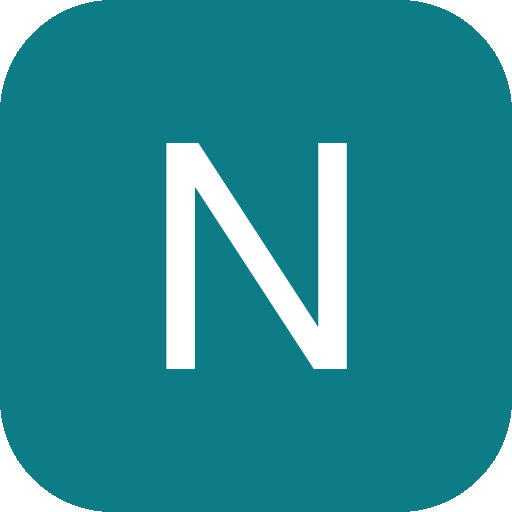
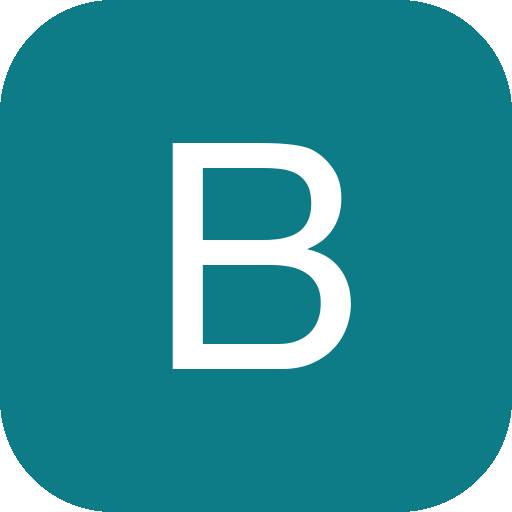
Renomeia o assistente de Nina para Bella (UI, ícone, IA, docs)

Changed region(s): [[0.375, 0.2812, 0.6875, 0.7188], [0.3125, 0.2812, 0.3438, 0.7188]]

diff --git a/backend/src/server.js b/backend/src/server.js
@@ -9,14 +9,14 @@ const app = express();
 app.use(cors());
 app.use(express.json({ limit: "1mb" }));
 
-app.get("/api/health", (req, res) => res.json({ ok: true, app: "Nina" }));
+app.get("/api/health", (req, res) => res.json({ ok: true, app: "Bella" }));
 app.use("/api/tarefas", tarefasRouter);
 app.use("/api/chat", chatRouter);
 app.use("/api/cofre", cofreRouter);
 
 const PORT = process.env.PORT || 3001;
 app.listen(PORT, () => {
-  console.log(`Nina (backend) rodando em http://localhost:${PORT}`);
+  console.log(`Bella (backend) rodando em http://localhost:${PORT}`);
   if (!process.env.ANTHROPIC_API_KEY) {
     console.log("⚠  ANTHROPIC_API_KEY não configurada — o chat responderá com um aviso até você preencher o .env");
   }

diff --git a/backend/src/anthropic.js b/backend/src/anthropic.js
@@ -50,7 +50,7 @@ function sistema() {
     timeZone: "America/Bahia",
   });
   return (
-    "Você é a Nina, assistente pessoal do Dr. Aedo. Fale em português do Brasil, " +
+    "Você é a Bella, assistente pessoal do Dr. Aedo. Fale em português do Brasil, " +
     "de forma breve, cordial e prática. Ajude com tarefas, lembretes, agenda e afazeres. " +
     `Hoje é ${dataHoje}, ${horaAgora} (fuso America/Bahia). ` +
     "Quando a pessoa pedir para lembrar, agendar ou anotar algo, use a ferramenta " +

diff --git a/frontend/vite.config.js b/frontend/vite.config.js
@@ -9,8 +9,8 @@ export default defineConfig({
       registerType: "autoUpdate",
       includeAssets: ["pwa-192x192.png", "pwa-512x512.png"],
       manifest: {
-        name: "Nina — Assistente Pessoal",
-        short_name: "Nina",
+        name: "Bella — Assistente Pessoal",
+        short_name: "Bella",
         description: "Seu assistente pessoal por voz e texto.",
         lang: "pt-BR",
         start_url: "/",

diff --git a/frontend/index.html b/frontend/index.html
@@ -6,7 +6,7 @@
     <meta name="theme-color" content="#0E7C86" />
     <meta name="apple-mobile-web-app-capable" content="yes" />
     <meta name="apple-mobile-web-app-status-bar-style" content="default" />
-    <title>Nina</title>
+    <title>Bella</title>
   </head>
   <body>
     <div id="root"></div>

diff --git a/frontend/src/config.js b/frontend/src/config.js
@@ -1,3 +1,3 @@
 // Nome do assistente/app. Troque aqui quando decidir o nome definitivo —
 // muda em toda a interface automaticamente.
-export const APP_NAME = "Nina";
+export const APP_NAME = "Bella";

diff --git a/PROXIMOS_PASSOS.md b/PROXIMOS_PASSOS.md
@@ -1,4 +1,4 @@
-# Onde paramos — Nina (Assistente Pessoal)
+# Onde paramos — Bella (Assistente Pessoal)
 
 _Atualizado na noite de 25/07/2026._
 
@@ -40,7 +40,7 @@ Abra o endereço do frontend (ex.: http://localhost:5173) no navegador.
 - **Gastos pessoais** (quanto gastou no mês, por categoria).
 - Notificações push (lembrete chega no celular na hora).
 - Publicar no Railway com login só seu (HTTPS + instalar no iPhone de verdade).
-- Escolher o nome definitivo (hoje está "Nina" — muda em `frontend/src/config.js`).
+- Escolher o nome definitivo (hoje está "Bella" — muda em `frontend/src/config.js`).
 
 ## 💡 Ideias novas (anotadas na noite de 25/07) — todas viáveis
 
@@ -48,7 +48,7 @@ Abra o endereço do frontend (ex.: http://localhost:5173) no navegador.
   Face ID** (biometria do próprio iPhone), para guardar notas e coisas pessoais.
   → Fácil e seguro. Ótimo primeiro recurso pra fazer.
 
-- **Enviar mensagem no WhatsApp por voz:** você dita, a Nina transcreve e **abre o
+- **Enviar mensagem no WhatsApp por voz:** você dita, a Bella transcreve e **abre o
   WhatsApp já com a mensagem escrita para o contato** — você só confere e toca em
   enviar. (Enviar 100% sozinho, sem tocar, exigiria a API paga do WhatsApp Business;
   a versão prática e gratuita é essa: deixa tudo pronto.)

diff --git a/README.md b/README.md
@@ -1,9 +1,9 @@
-# Nina — Assistente Pessoal (PWA)
+# Bella — Assistente Pessoal (PWA)
 
 Assistente pessoal por **voz e texto** que entende linguagem natural e cria suas
 tarefas automaticamente. Feito para instalar na tela inicial do iPhone/iPad (PWA).
 
-> O nome "Nina" é provisório — para trocar, edite `frontend/src/config.js`.
+> O nome "Bella" é provisório — para trocar, edite `frontend/src/config.js`.
 
 ## O que já funciona (MVP)
 
